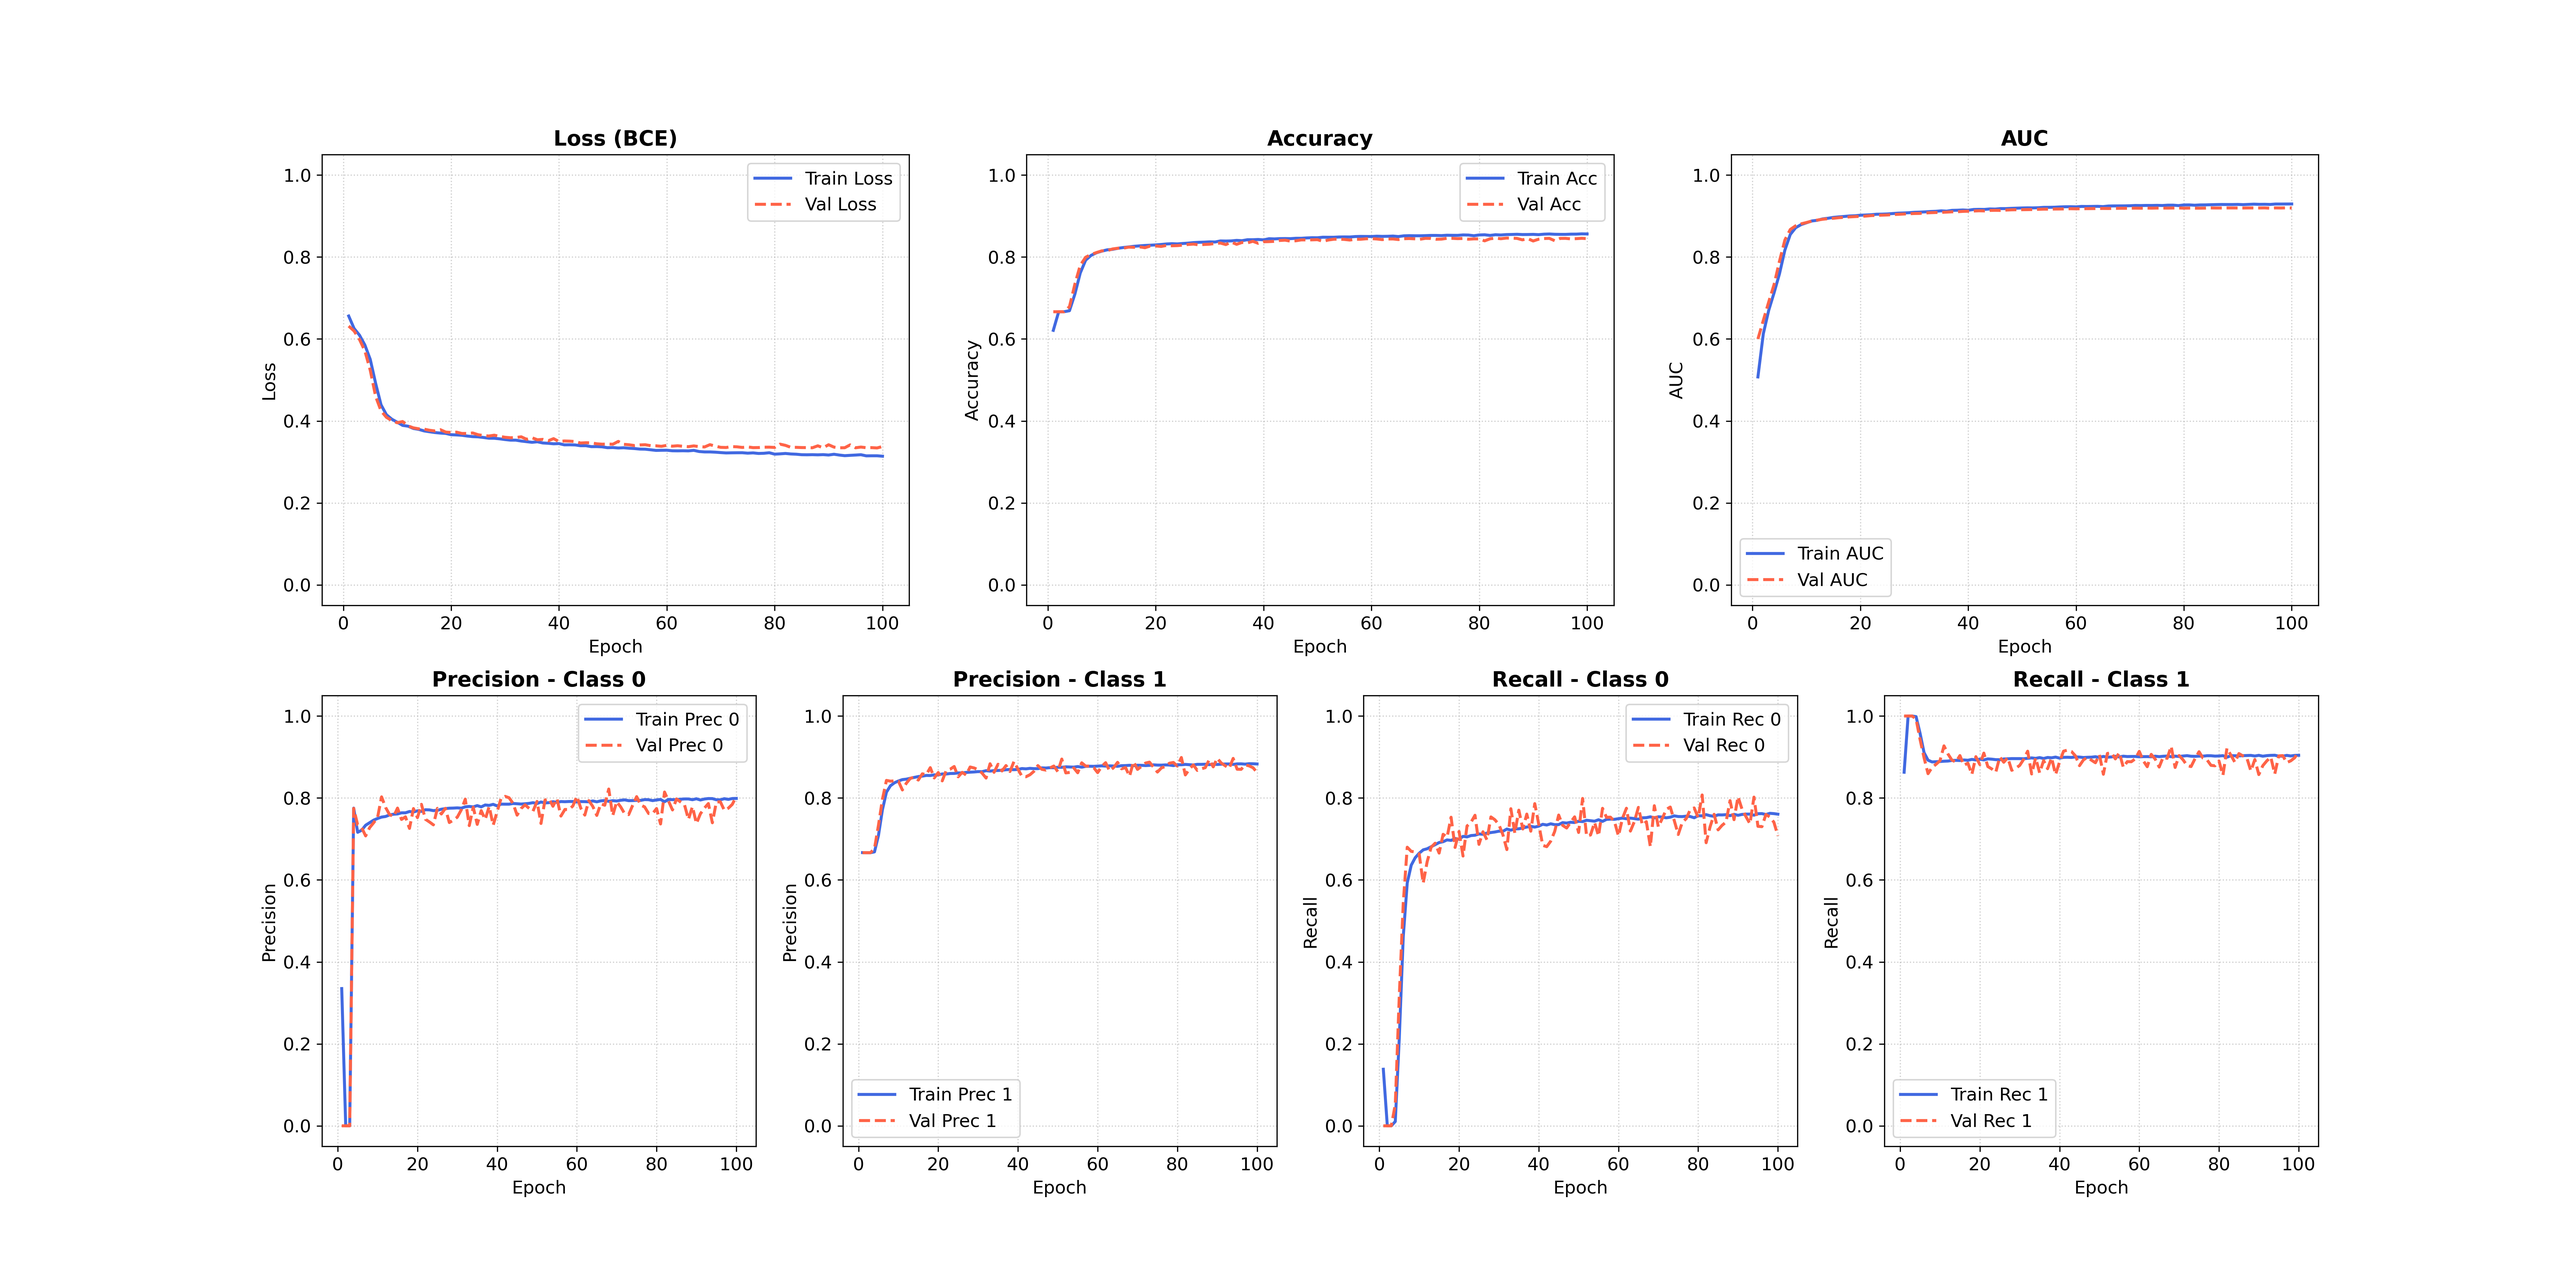
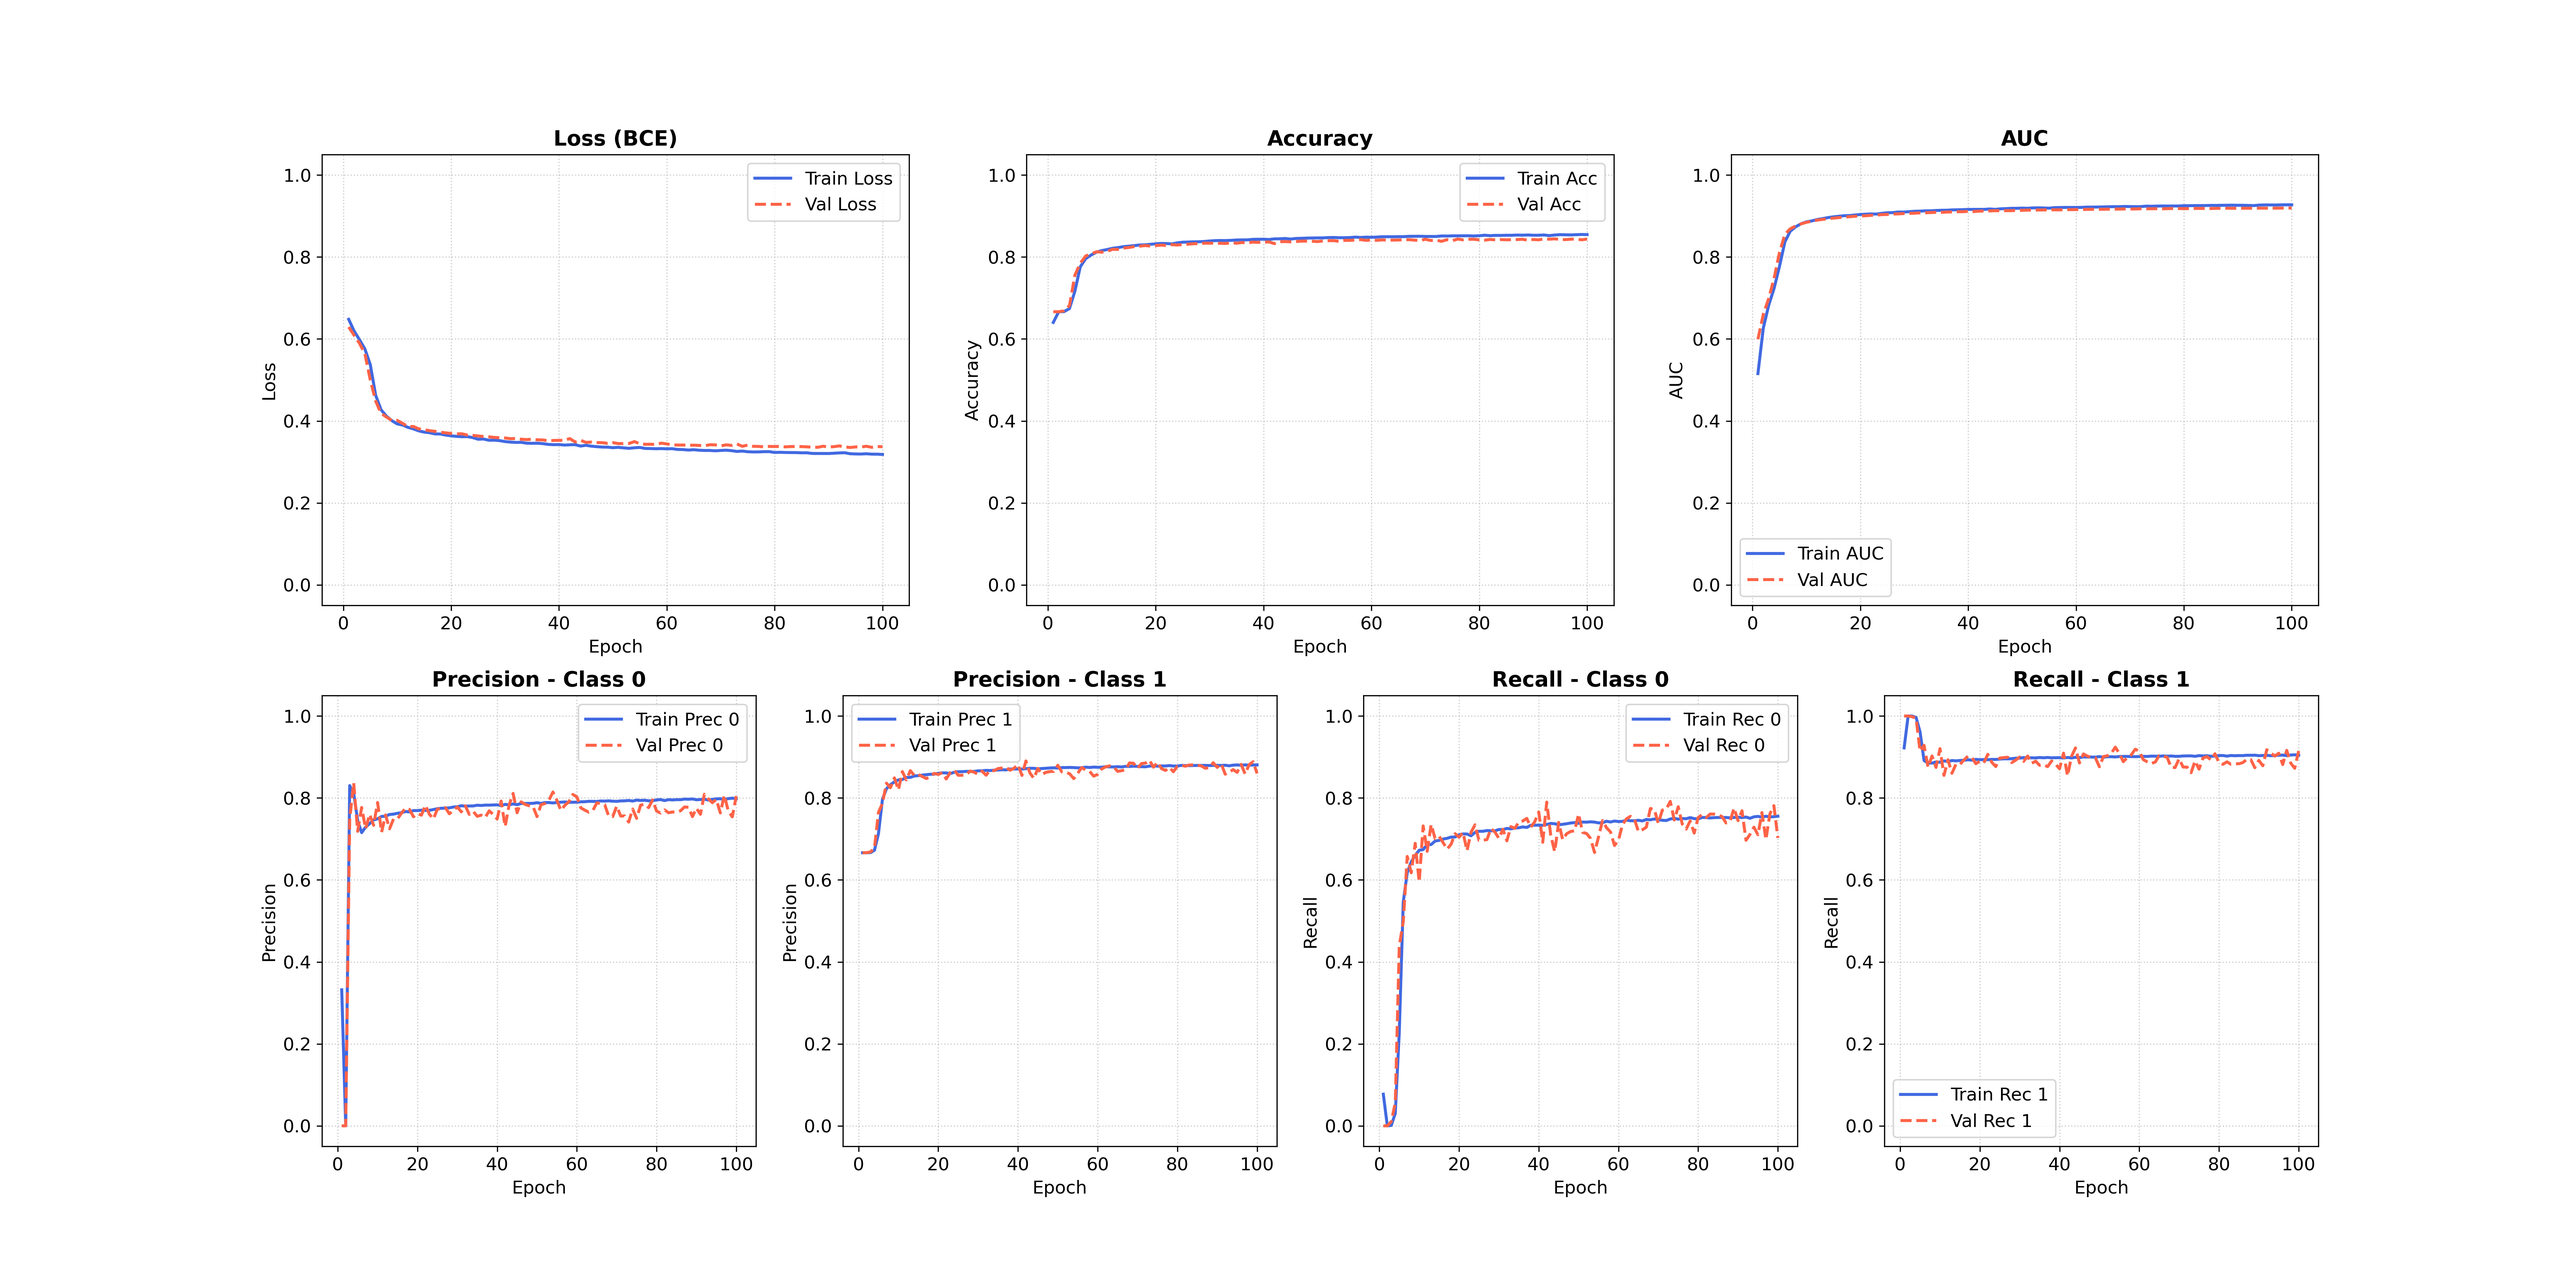
create residual-sign_mlp_ver2

diff --git a/src/models/residual-sign_mlp_ver2.py b/src/models/residual-sign_mlp_ver2.py
@@ -17,7 +17,7 @@ OUTPUT_DIR = os.path.join(DATA_DIR, "output")
 
 FEATURE_PATH = os.path.join(INPUT_DIR, "residual-sign_features.npz")
 LABEL_PATH = os.path.join(INPUT_DIR, "residual-sign_label.npz")
-LOG_PATH = os.path.join(OUTPUT_DIR, "logs", "residual-sign_mlp.csv")
+LOG_PATH = os.path.join(OUTPUT_DIR, "logs", "residual-sign_mlp_ver2.csv")
 
 # 하이퍼파라미터
 BATCH_SIZE = 4096
@@ -25,7 +25,7 @@ LEARNING_RATE = 0.001
 EPOCHS = 100
 VAL_RATIO = 0.2
 THRESHOLD = 0.5 
-SUBSPACE_EMBED_DIM = 4      # 입력 feature 에 대한 특성을 subspace 차원에서 패턴을 확인해볼 수 있도록 subspace를 위한 임베딩 추가
+SUBSPACE_EMBED_DIM = 1      # 입력 feature 에 대한 특성을 subspace 차원에서 패턴을 확인해볼 수 있도록 subspace를 위한 임베딩 추가
 FEATURE_DIM = 18            # 첫번째 MLP 모델의 입력으로 들어가는 feature 차원
 EMBED_DIM = 8               # 두번째 MLP 모델의 입력으로 들어가는 임베딩된 feature 차원
 DEVICE = torch.device("cuda" if torch.cuda.is_available() else "cpu")
@@ -75,21 +75,21 @@ class ResidualSignPredictionModel(nn.Module):
     def __init__(self):
         super(ResidualSignPredictionModel, self).__init__()
         self.input_norm = nn.BatchNorm1d(FEATURE_DIM)               # input feature 배치단위 정규화
-        self.id_embedding = nn.Embedding(16, SUBSPACE_EMBED_DIM)    # subspace(16개) 에 대한 임베딩 추가: 16D -> 4D
+        self.id_embedding = nn.Embedding(16, SUBSPACE_EMBED_DIM)    # subspace(16개) 에 대한 임베딩 추가
         
-        # MLP1(임베딩): feature(18D) + subspace embedding(4D) -> 32D -> 8D: 22차원을 8차원으로 임베딩
+        # MLP1(임베딩): feature(18D) + subspace embedding(1D) -> 32D -> 8D: 19차원을 8차원으로 임베딩
         self.shared_mlp = nn.Sequential(                            
             nn.Linear(FEATURE_DIM + SUBSPACE_EMBED_DIM, 32),
-            nn.ReLU(),
+            nn.LeakyReLU(),
             nn.Linear(32, EMBED_DIM),
-            nn.ReLU() 
+            nn.LeakyReLU() 
         )
         
         # MLP2(residual 부호 예측): 8D+8D+...+8D(128D) -> 64D -> 1D: MLP1에서의 결과 concat 후 예측
         global_input_dim = 16 * EMBED_DIM
         self.global_mlp = nn.Sequential(
             nn.Linear(global_input_dim, 64),
-            nn.ReLU(),
+            nn.LeakyReLU(),
             nn.Linear(64, 1),
             nn.Sigmoid()
         )
@@ -103,13 +103,13 @@ class ResidualSignPredictionModel(nn.Module):
         # 스케일링
         x_norm = self.input_norm(x_flat)
         
-        # subspace 정보 임베딩
+        # subspace 정보 임베딩 -> 1D로 설정하면 id 처럼 사용 가능
         ids = self.subspace_indices.repeat(batch_size) 
         id_emb = self.id_embedding(ids) 
         # feature + subspace 임베딩
         combined = torch.cat([x_norm, id_emb], dim=1)
 
-        # MLP1(22D -> 32D -> 8D)
+        # MLP1(19D -> 32D -> 8D)
         block_emb = self.shared_mlp(combined)
         
         # MLP2(8D*16개(128D) -> 64D -> 1D)
